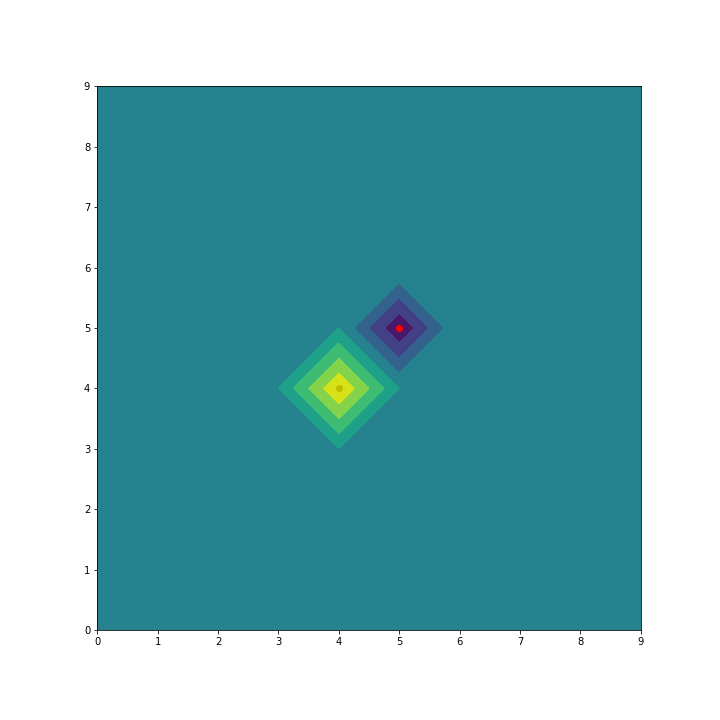
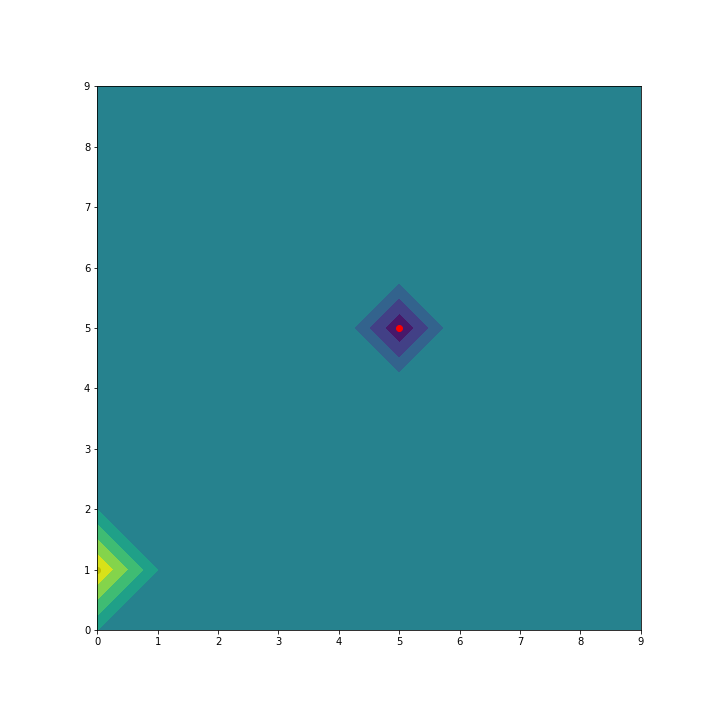
Added random movement for Pacman

Changed region(s): [[0.3667, 0.4583, 0.55, 0.6417], [0.1222, 0.7028, 0.2139, 0.8861]]

diff --git a/modules/Environment.py b/modules/Environment.py
@@ -14,12 +14,17 @@ class Environment:
     def __init__(self):
         self.hidden_variable = False # cause Python
         self.agent_ID = np.zeros((lattice_len,lattice_height)) # represent where agents are located
+        self.pellet_ID = np.ones((lattice_len, lattice_height)) # represent where pellets are located
         for i in range(0, self.agent_ID.shape[0]):
             for j in range(0, self.agent_ID.shape[1]):
                 self.agent_ID[i][j] = 0
+        for i in range(0, self.pellet_ID.shape[0]):
+            for j in range(0, self.pellet_ID.shape[1]):
+                self.pellet_ID[i][j] = 1
         return
     def plot_me(self):
         plt.figure()
         plt.contourf(np.transpose(self.agent_ID))
+        plt.contourf(np.transpose(self.pellet_ID))
         plt.show()
         return

diff --git a/modules/Pacman.py b/modules/Pacman.py
@@ -14,3 +14,19 @@ class Pacman:
         self.pos_y = dest_y
         grid.agent_ID[self.pos_x,self.pos_y] = 1
         return
+    def decide(self, grid):
+        final_x = self.pos_x
+        final_y = self.pos_y
+        #rand = np.random.randint(0, len(self.neighbors))
+        #cnt = 0
+        
+        for sp in self.neighbors:
+            pt_x = self.pos_x + sp[0]
+            pt_y = self.pos_y + sp[1]
+            if pt_x < 0 or pt_x > (grid.agent_ID.shape[0]-1) or pt_y < 0 or pt_y > (grid.agent_ID.shape[1]-1):
+                continue
+            if grid.pellet_ID[pt_x][pt_y] == 1:
+                final_x = pt_x
+                final_y = pt_y
+        self.move(final_x, final_y, grid)
+            

diff --git a/modules/Scaffold.py b/modules/Scaffold.py
@@ -17,7 +17,7 @@ def startup():
     ghost = Ghost.Ghost(grid)
     PacPlots.plot_all(grid, ghost, pac, "firstplot")
     ghost.move(5,5,grid)
-    pac.move(4,4,grid)
+    pac.decide(grid)
     PacPlots.plot_all(grid, ghost, pac, "firstplot")
     
 
